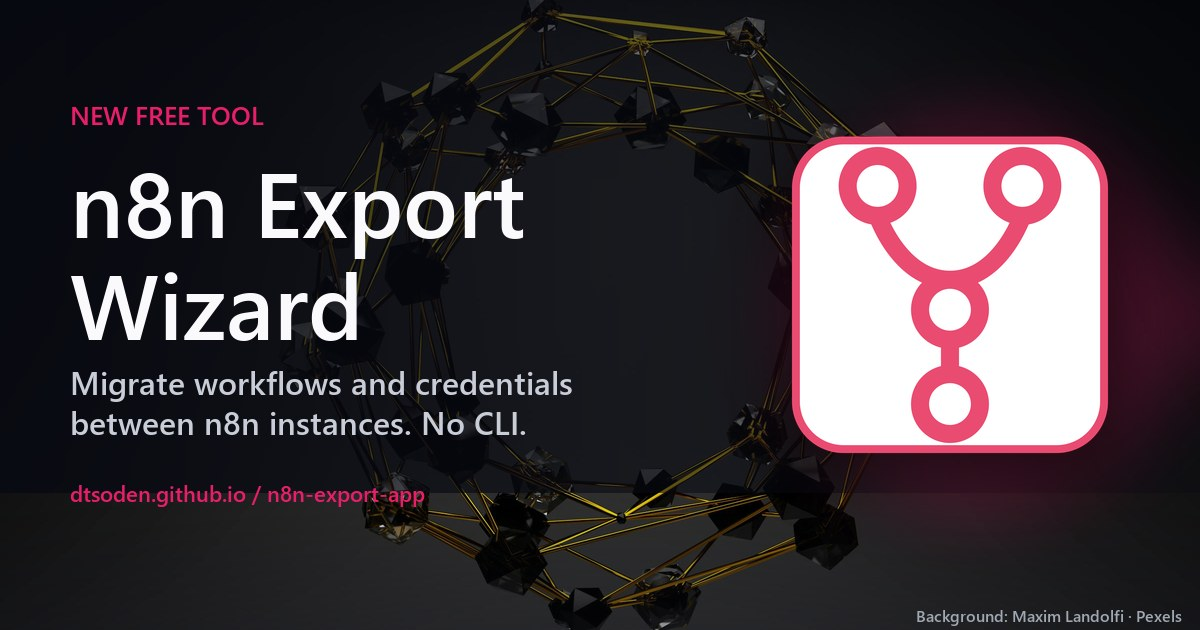
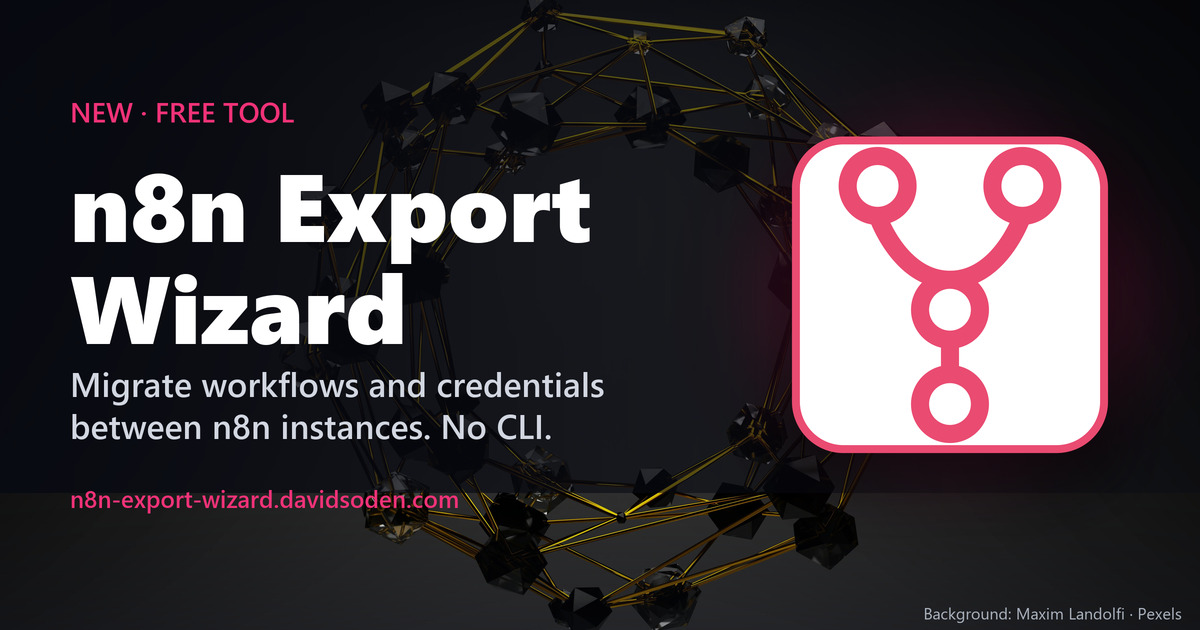
Sharper social card + canonical URLs on n8n-export-wizard.davidsoden.com

diff --git a/index.html b/index.html
@@ -5,7 +5,7 @@
     <meta name="viewport" content="width=device-width, initial-scale=1" />
     <title>n8n Export Wizard — Workflow & credential migration for n8n</title>
     <meta name="description" content="Free desktop app to export and import n8n workflows and credentials between SQLite databases and remote n8n instances. Cross-instance migration without spinning up the source n8n." />
-    <link rel="canonical" href="https://dtsoden.github.io/n8n-export-app/" />
+    <link rel="canonical" href="https://n8n-export-wizard.davidsoden.com/" />
     <link rel="icon" href="favicon.ico" sizes="any" />
     <link rel="icon" type="image/png" href="assets/icon.png" />
     <link rel="apple-touch-icon" href="assets/icon.png" />
@@ -14,11 +14,11 @@
     <!-- Open Graph (Facebook, LinkedIn, Slack, Discord, generic) -->
     <meta property="og:type" content="website" />
     <meta property="og:site_name" content="n8n Export Wizard" />
-    <meta property="og:url" content="https://dtsoden.github.io/n8n-export-app/" />
+    <meta property="og:url" content="https://n8n-export-wizard.davidsoden.com/" />
     <meta property="og:title" content="n8n Export Wizard — Migrate workflows and credentials between n8n instances" />
     <meta property="og:description" content="Free Windows + macOS desktop app that exports and imports n8n workflows and credentials between SQLite databases and remote n8n instances via the Public API. No CLI required." />
-    <meta property="og:image" content="https://dtsoden.github.io/n8n-export-app/assets/social-card.png" />
-    <meta property="og:image:secure_url" content="https://dtsoden.github.io/n8n-export-app/assets/social-card.png" />
+    <meta property="og:image" content="https://n8n-export-wizard.davidsoden.com/assets/social-card.png" />
+    <meta property="og:image:secure_url" content="https://n8n-export-wizard.davidsoden.com/assets/social-card.png" />
     <meta property="og:image:type" content="image/png" />
     <meta property="og:image:width" content="1200" />
     <meta property="og:image:height" content="630" />
@@ -29,7 +29,7 @@
     <meta name="twitter:card" content="summary_large_image" />
     <meta name="twitter:title" content="n8n Export Wizard — Migrate workflows and credentials between n8n instances" />
     <meta name="twitter:description" content="Free Windows + macOS desktop app that exports and imports n8n workflows and credentials. No CLI required." />
-    <meta name="twitter:image" content="https://dtsoden.github.io/n8n-export-app/assets/social-card.png" />
+    <meta name="twitter:image" content="https://n8n-export-wizard.davidsoden.com/assets/social-card.png" />
     <meta name="twitter:image:alt" content="n8n Export Wizard — free desktop app to migrate workflows and credentials between n8n instances" />
     <link rel="stylesheet" href="styles.css" />
   </head>
